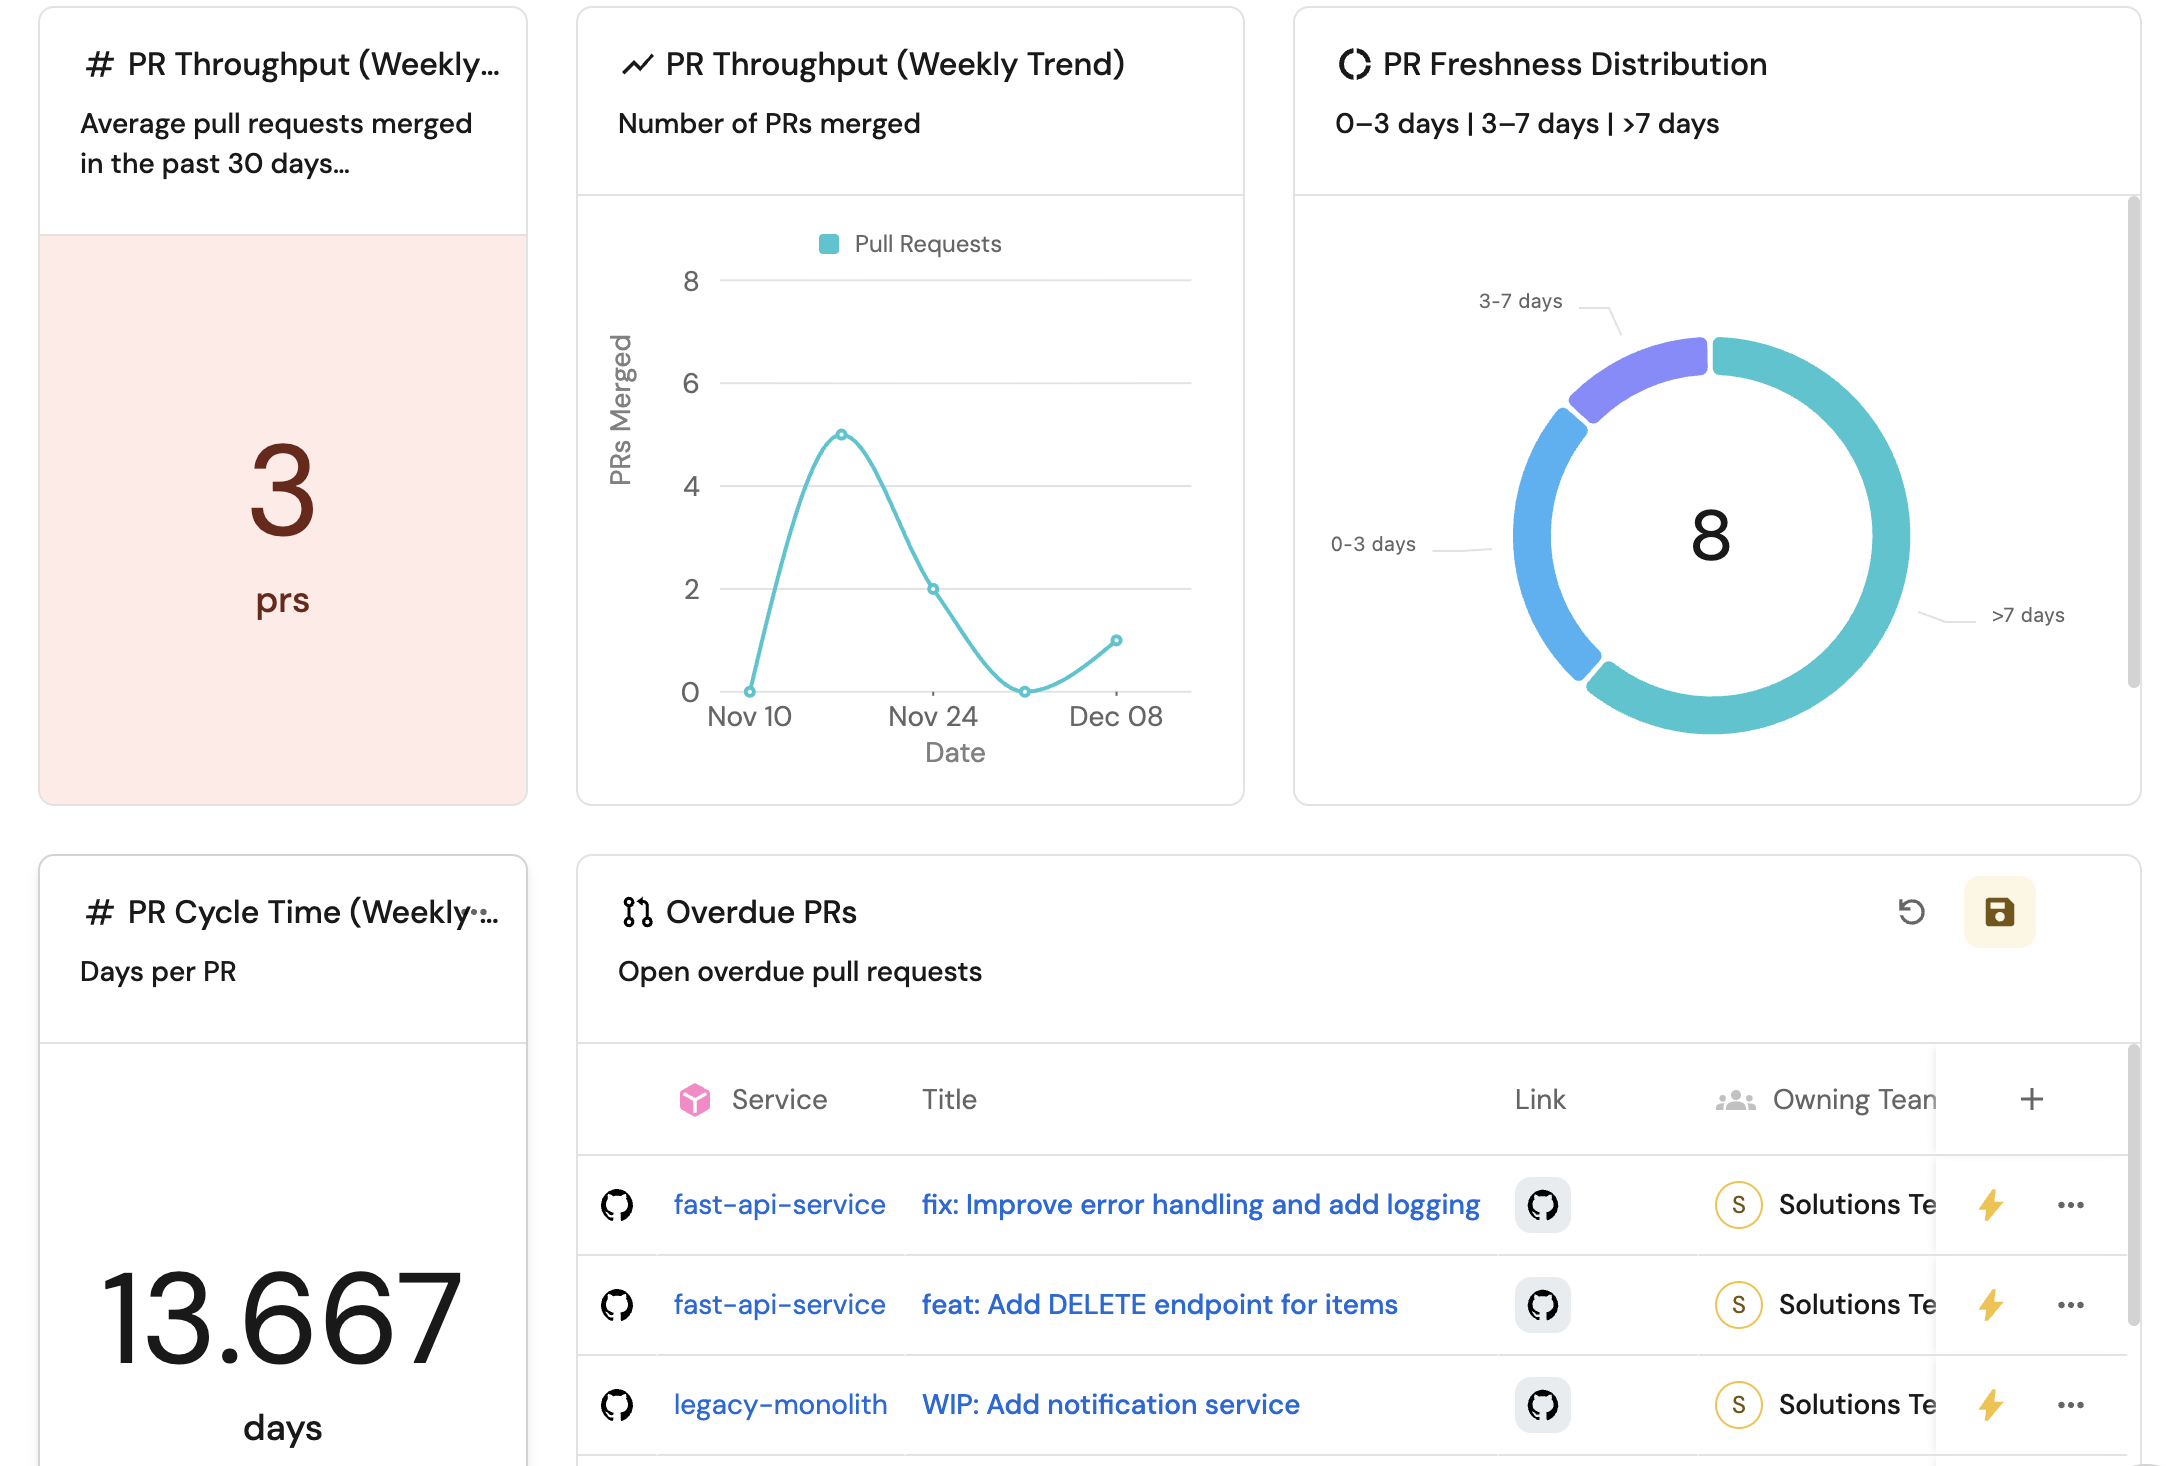
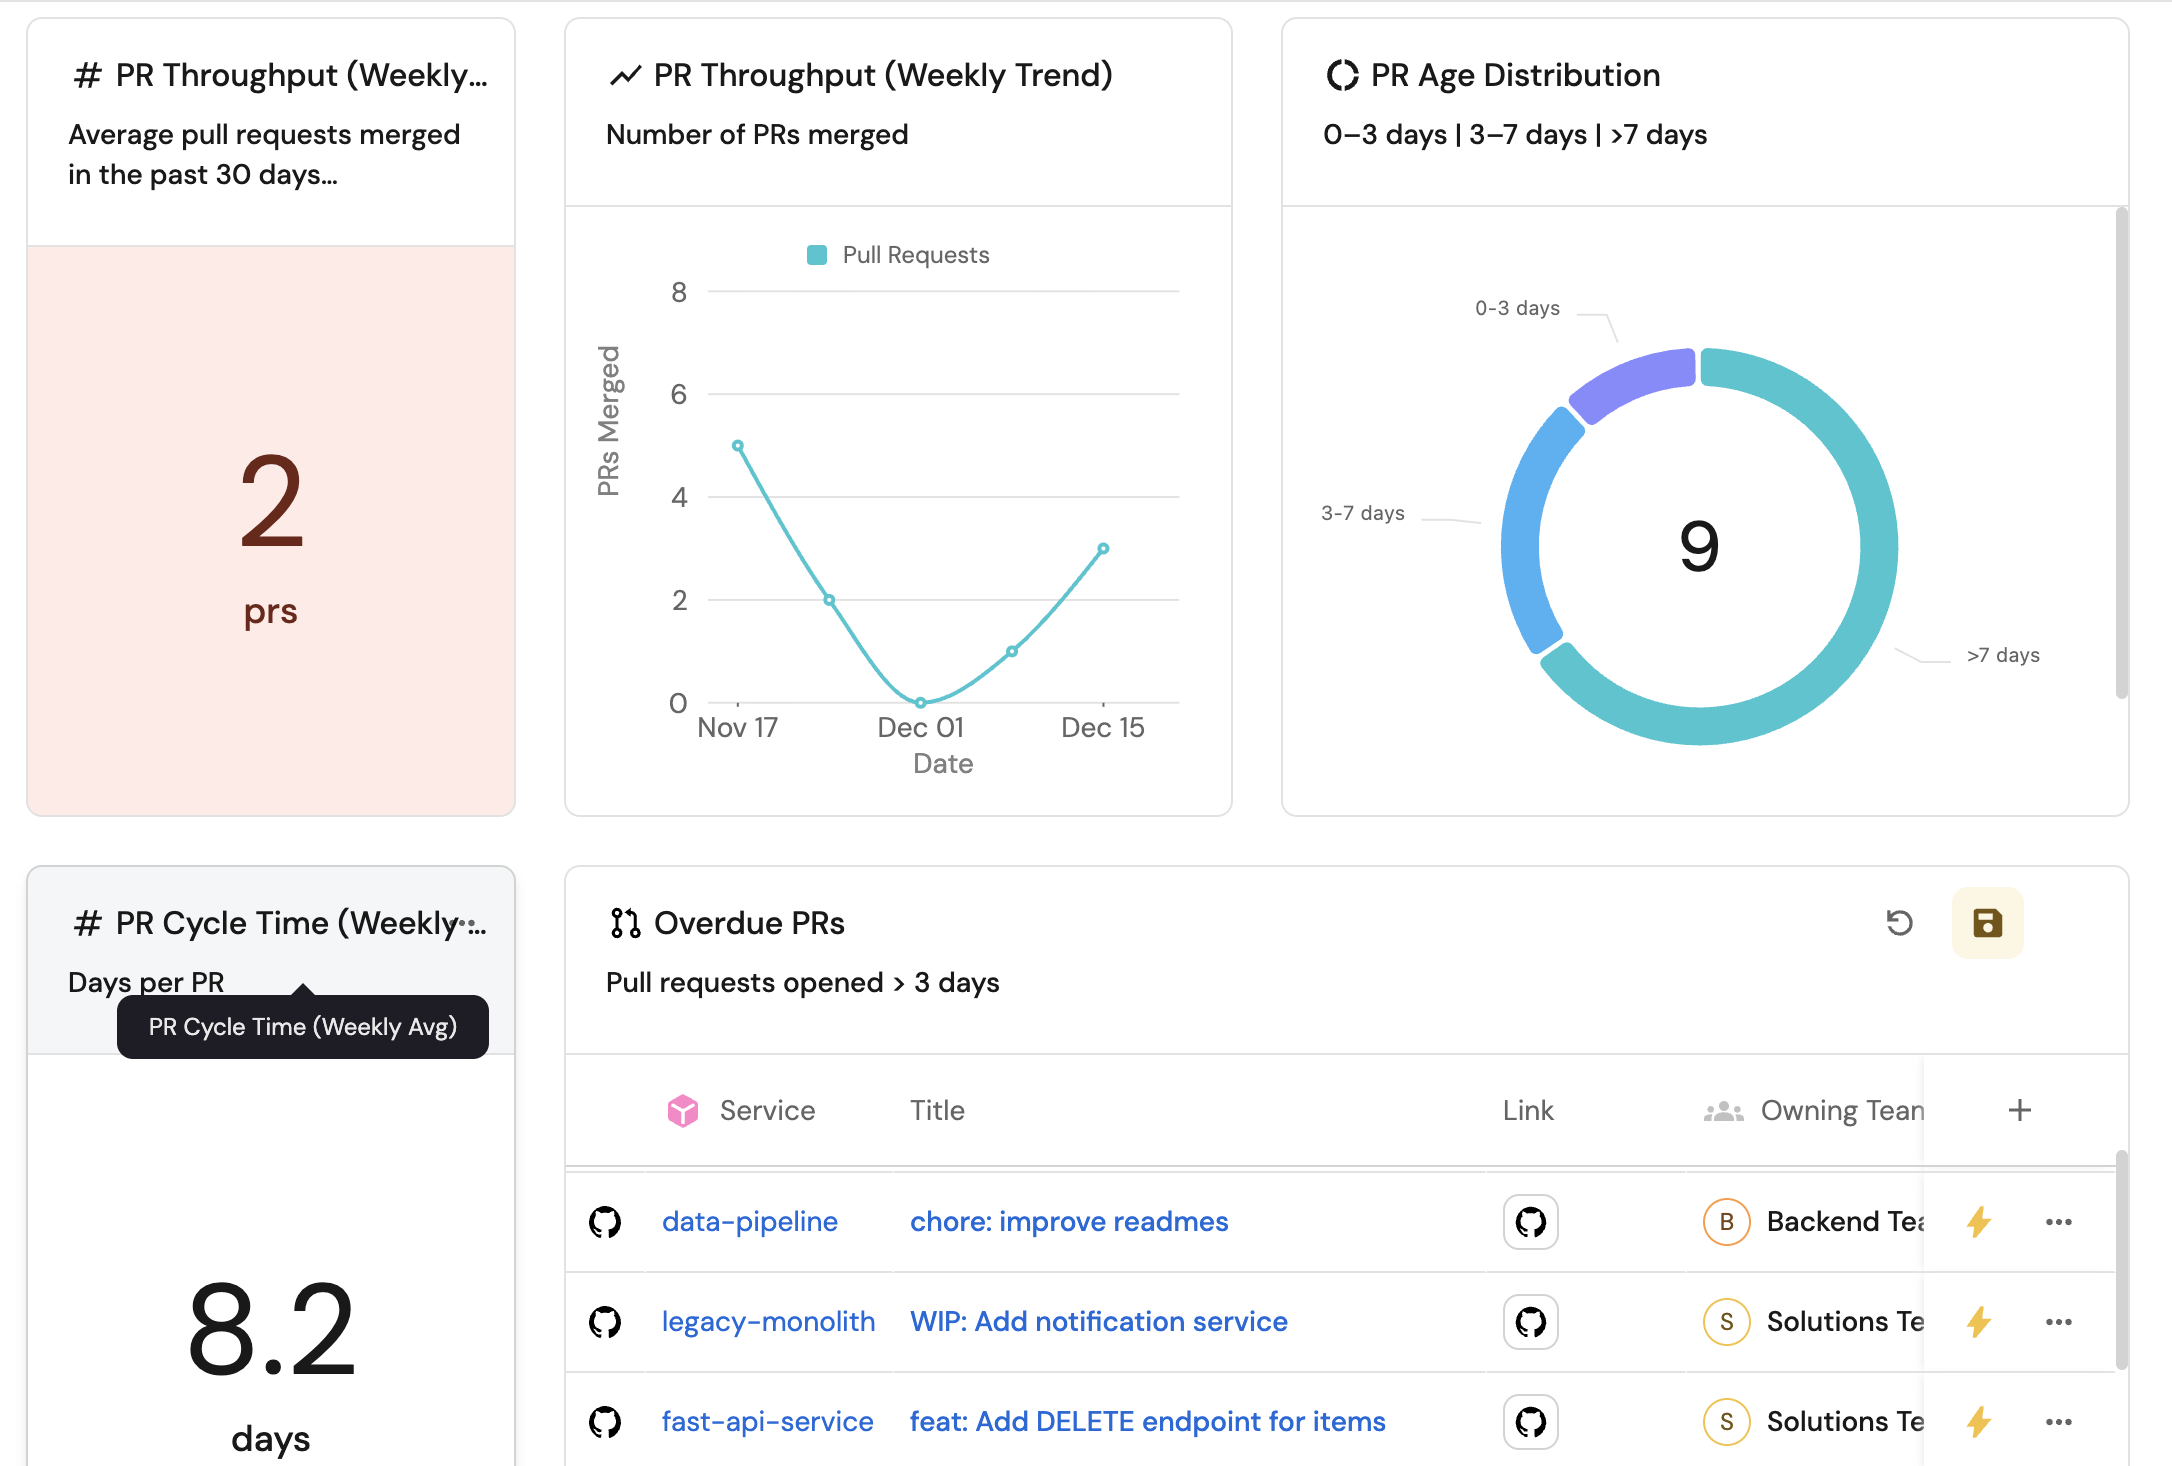
update freshness to pr age

diff --git a/docs/guides/all/measure-and-track-delivery-performance.md b/docs/guides/all/measure-and-track-delivery-performance.md
@@ -220,10 +220,10 @@ If you already have a pull request blueprint, you need to add the following prop
             "type": "number",
             "title": "Cycle Time"
           },
-          "freshness": {
+          "pr_age_label": {
             "icon": "DefaultProperty",
             "type": "string",
-            "title": "Freshness"
+            "title": "PR Age Label"
           }
         },
         "required": []
@@ -263,7 +263,7 @@ If you already have a pull request blueprint, you need to add the following prop
     </details>
 
 :::caution Properties to create for existing PR blueprint
-If you're updating an existing pull request blueprint, make sure to add the `pr_age`, `cycle_time`, and `freshness` properties if they don't already exist.
+If you're updating an existing pull request blueprint, make sure to add the `pr_age`, `cycle_time`, and `pr_age_label` properties if they don't already exist.
 :::
 
 4. Click `Save` to create or update the blueprint.
@@ -407,7 +407,7 @@ Now we'll configure the GitHub integration to ingest data into your catalog.
                 pr_age: >-
                   ((now - (.created_at | sub("\\.[0-9]+Z$"; "Z") | fromdateiso8601))
                   / 86400) | round
-                freshness: >-
+                pr_age_label: >-
                   ((now - (.created_at | sub("\\.[0-9]+Z$"; "Z") | fromdateiso8601))
                   / 86400 | round) as $age | if $age <= 3 then "0-3 days" elif $age
                   <= 7 then "3-7 days" else ">7 days" end
@@ -676,13 +676,13 @@ In the new dashboard, create the following widgets:
 </details>
 
 <details>
-<summary><b>PR freshness distribution (click to expand)</b></summary>
+<summary><b>PR age distribution (click to expand)</b></summary>
 
 1. Click **`+ Widget`** and select **Pie chart**.
-2. Title: `PR Freshness Distribution`.
+2. Title: `PR Age Distribution`.
 3. Description: `0–3 days | 3–7 days | >7 days`.
 4. Choose the **Pull Request** blueprint.
-5. Under `Breakdown by property`, select the **Freshness** property.
+5. Under `Breakdown by property`, select the **PR Age** property.
 6. Add this JSON to the **Additional filters** editor:
 
     ```json showLineNumbers
